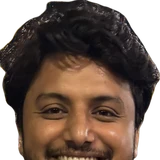
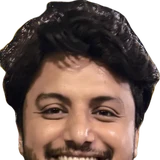
Ask Pranit: brighter complexion on both faces and arms
Claude-Session: https://claude.ai/code/session_017gPuvMHvQVt6sSyikFXk9c

diff --git a/index.html b/index.html
@@ -1150,9 +1150,9 @@ body.reading .ask{transform:translateY(calc(100% + 24px + env(safe-area-inset-bo
 </div>
 
 <!-- AI guide -->
-<div class="guide" id="guide" aria-hidden="true"><svg viewBox="0 0 120 205" class="mascot pchar" aria-hidden="true"><g class="m-all"><ellipse class="m-shadow" cx="60" cy="201" rx="26" ry="3.4" fill="#000" opacity=".22"/><g class="m-leg m-leg-l"><path d="M40 148h19l-1 44H39z" fill="#9FB5D2" stroke="#241712" stroke-width="1.5" stroke-linejoin="round"/><path d="M49 154v35" stroke="#6F87A8" stroke-width="1.2"/><path d="M35 191h24v6q0 3-3 3H38q-4 0-4-3.5z" fill="#F6F1E8" stroke="#241712" stroke-width="1.5" stroke-linejoin="round"/></g><g class="m-leg m-leg-r"><path d="M61 148h19l1 44H62z" fill="#9FB5D2" stroke="#241712" stroke-width="1.5" stroke-linejoin="round"/><path d="M71 154v35" stroke="#6F87A8" stroke-width="1.2"/><path d="M61 191h24l1 5.5q0 3.5-4 3.5H64q-3 0-3-3z" fill="#F6F1E8" stroke="#241712" stroke-width="1.5" stroke-linejoin="round"/></g><g class="m-arm m-arm-l"><path d="M29 104q-8 14-9 32" stroke="#5E3A28" stroke-width="9.5" fill="none" stroke-linecap="round"/><path d="M29 104q-8 14-9 32" stroke="#A36D50" stroke-width="7" fill="none" stroke-linecap="round"/><path d="M27 108q-10 17 0 31" stroke="#222" stroke-width="1.4" fill="none"/><rect x="11" y="133" width="20" height="13.5" rx="3" fill="#1B1B1B" stroke="#F6F1E8" stroke-width="1"/><rect x="14" y="130.5" width="6" height="3" rx="1" fill="#1B1B1B"/><circle cx="21" cy="139.7" r="4.6" fill="#333" stroke="#F6F1E8" stroke-width=".9"/><circle cx="21" cy="139.7" r="2.1" fill="#6FA8DC"/></g><g class="m-arm m-arm-r"><path d="M91 104q8 14 9 32" stroke="#5E3A28" stroke-width="9.5" fill="none" stroke-linecap="round"/><path d="M91 104q8 14 9 32" stroke="#A36D50" stroke-width="7" fill="none" stroke-linecap="round"/><circle cx="99.5" cy="138" r="5" fill="#A36D50" stroke="#5E3A28" stroke-width="1.3"/></g><g class="m-head"><image class="m-face" href="img/pk-face.webp" x="21" y="0" width="78" height="112"/><image class="m-grin" href="img/pk-grin.webp" x="21" y="0" width="78" height="112" opacity="0"/></g><path d="M38 89Q60 104 82 89L99 96 105 121 91 126.5V152H29V126.5L15 121 21 96Z" fill="#141014" stroke="#F6F1E8" stroke-width="1.2" stroke-linejoin="round"/><path d="M39.5 90.2Q60 104.6 80.5 90.2" fill="none" stroke="#2E262C" stroke-width="2.6" stroke-linecap="round"/></g></svg></div>
+<div class="guide" id="guide" aria-hidden="true"><svg viewBox="0 0 120 205" class="mascot pchar" aria-hidden="true"><g class="m-all"><ellipse class="m-shadow" cx="60" cy="201" rx="26" ry="3.4" fill="#000" opacity=".22"/><g class="m-leg m-leg-l"><path d="M40 148h19l-1 44H39z" fill="#9FB5D2" stroke="#241712" stroke-width="1.5" stroke-linejoin="round"/><path d="M49 154v35" stroke="#6F87A8" stroke-width="1.2"/><path d="M35 191h24v6q0 3-3 3H38q-4 0-4-3.5z" fill="#F6F1E8" stroke="#241712" stroke-width="1.5" stroke-linejoin="round"/></g><g class="m-leg m-leg-r"><path d="M61 148h19l1 44H62z" fill="#9FB5D2" stroke="#241712" stroke-width="1.5" stroke-linejoin="round"/><path d="M71 154v35" stroke="#6F87A8" stroke-width="1.2"/><path d="M61 191h24l1 5.5q0 3.5-4 3.5H64q-3 0-3-3z" fill="#F6F1E8" stroke="#241712" stroke-width="1.5" stroke-linejoin="round"/></g><g class="m-arm m-arm-l"><path d="M29 104q-8 14-9 32" stroke="#8A5A40" stroke-width="9.5" fill="none" stroke-linecap="round"/><path d="M29 104q-8 14-9 32" stroke="#D9A07E" stroke-width="7" fill="none" stroke-linecap="round"/><path d="M27 108q-10 17 0 31" stroke="#222" stroke-width="1.4" fill="none"/><rect x="11" y="133" width="20" height="13.5" rx="3" fill="#1B1B1B" stroke="#F6F1E8" stroke-width="1"/><rect x="14" y="130.5" width="6" height="3" rx="1" fill="#1B1B1B"/><circle cx="21" cy="139.7" r="4.6" fill="#333" stroke="#F6F1E8" stroke-width=".9"/><circle cx="21" cy="139.7" r="2.1" fill="#6FA8DC"/></g><g class="m-arm m-arm-r"><path d="M91 104q8 14 9 32" stroke="#8A5A40" stroke-width="9.5" fill="none" stroke-linecap="round"/><path d="M91 104q8 14 9 32" stroke="#D9A07E" stroke-width="7" fill="none" stroke-linecap="round"/><circle cx="99.5" cy="138" r="5" fill="#D9A07E" stroke="#8A5A40" stroke-width="1.3"/></g><g class="m-head"><image class="m-face" href="img/pk-face.webp" x="21" y="0" width="78" height="112"/><image class="m-grin" href="img/pk-grin.webp" x="21" y="0" width="78" height="112" opacity="0"/></g><path d="M38 89Q60 104 82 89L99 96 105 121 91 126.5V152H29V126.5L15 121 21 96Z" fill="#141014" stroke="#F6F1E8" stroke-width="1.2" stroke-linejoin="round"/><path d="M39.5 90.2Q60 104.6 80.5 90.2" fill="none" stroke="#2E262C" stroke-width="2.6" stroke-linecap="round"/></g></svg></div>
 <div class="tour" id="tour" hidden>
-  <span class="tav pav"><svg viewBox="0 0 120 205" class="mascot pchar" aria-hidden="true"><g class="m-all"><ellipse class="m-shadow" cx="60" cy="201" rx="26" ry="3.4" fill="#000" opacity=".22"/><g class="m-leg m-leg-l"><path d="M40 148h19l-1 44H39z" fill="#9FB5D2" stroke="#241712" stroke-width="1.5" stroke-linejoin="round"/><path d="M49 154v35" stroke="#6F87A8" stroke-width="1.2"/><path d="M35 191h24v6q0 3-3 3H38q-4 0-4-3.5z" fill="#F6F1E8" stroke="#241712" stroke-width="1.5" stroke-linejoin="round"/></g><g class="m-leg m-leg-r"><path d="M61 148h19l1 44H62z" fill="#9FB5D2" stroke="#241712" stroke-width="1.5" stroke-linejoin="round"/><path d="M71 154v35" stroke="#6F87A8" stroke-width="1.2"/><path d="M61 191h24l1 5.5q0 3.5-4 3.5H64q-3 0-3-3z" fill="#F6F1E8" stroke="#241712" stroke-width="1.5" stroke-linejoin="round"/></g><g class="m-arm m-arm-l"><path d="M29 104q-8 14-9 32" stroke="#5E3A28" stroke-width="9.5" fill="none" stroke-linecap="round"/><path d="M29 104q-8 14-9 32" stroke="#A36D50" stroke-width="7" fill="none" stroke-linecap="round"/><path d="M27 108q-10 17 0 31" stroke="#222" stroke-width="1.4" fill="none"/><rect x="11" y="133" width="20" height="13.5" rx="3" fill="#1B1B1B" stroke="#F6F1E8" stroke-width="1"/><rect x="14" y="130.5" width="6" height="3" rx="1" fill="#1B1B1B"/><circle cx="21" cy="139.7" r="4.6" fill="#333" stroke="#F6F1E8" stroke-width=".9"/><circle cx="21" cy="139.7" r="2.1" fill="#6FA8DC"/></g><g class="m-arm m-arm-r"><path d="M91 104q8 14 9 32" stroke="#5E3A28" stroke-width="9.5" fill="none" stroke-linecap="round"/><path d="M91 104q8 14 9 32" stroke="#A36D50" stroke-width="7" fill="none" stroke-linecap="round"/><circle cx="99.5" cy="138" r="5" fill="#A36D50" stroke="#5E3A28" stroke-width="1.3"/></g><g class="m-head"><image class="m-face" href="img/pk-face.webp" x="21" y="0" width="78" height="112"/><image class="m-grin" href="img/pk-grin.webp" x="21" y="0" width="78" height="112" opacity="0"/></g><path d="M38 89Q60 104 82 89L99 96 105 121 91 126.5V152H29V126.5L15 121 21 96Z" fill="#141014" stroke="#F6F1E8" stroke-width="1.2" stroke-linejoin="round"/><path d="M39.5 90.2Q60 104.6 80.5 90.2" fill="none" stroke="#2E262C" stroke-width="2.6" stroke-linecap="round"/></g></svg></span>
+  <span class="tav pav"><svg viewBox="0 0 120 205" class="mascot pchar" aria-hidden="true"><g class="m-all"><ellipse class="m-shadow" cx="60" cy="201" rx="26" ry="3.4" fill="#000" opacity=".22"/><g class="m-leg m-leg-l"><path d="M40 148h19l-1 44H39z" fill="#9FB5D2" stroke="#241712" stroke-width="1.5" stroke-linejoin="round"/><path d="M49 154v35" stroke="#6F87A8" stroke-width="1.2"/><path d="M35 191h24v6q0 3-3 3H38q-4 0-4-3.5z" fill="#F6F1E8" stroke="#241712" stroke-width="1.5" stroke-linejoin="round"/></g><g class="m-leg m-leg-r"><path d="M61 148h19l1 44H62z" fill="#9FB5D2" stroke="#241712" stroke-width="1.5" stroke-linejoin="round"/><path d="M71 154v35" stroke="#6F87A8" stroke-width="1.2"/><path d="M61 191h24l1 5.5q0 3.5-4 3.5H64q-3 0-3-3z" fill="#F6F1E8" stroke="#241712" stroke-width="1.5" stroke-linejoin="round"/></g><g class="m-arm m-arm-l"><path d="M29 104q-8 14-9 32" stroke="#8A5A40" stroke-width="9.5" fill="none" stroke-linecap="round"/><path d="M29 104q-8 14-9 32" stroke="#D9A07E" stroke-width="7" fill="none" stroke-linecap="round"/><path d="M27 108q-10 17 0 31" stroke="#222" stroke-width="1.4" fill="none"/><rect x="11" y="133" width="20" height="13.5" rx="3" fill="#1B1B1B" stroke="#F6F1E8" stroke-width="1"/><rect x="14" y="130.5" width="6" height="3" rx="1" fill="#1B1B1B"/><circle cx="21" cy="139.7" r="4.6" fill="#333" stroke="#F6F1E8" stroke-width=".9"/><circle cx="21" cy="139.7" r="2.1" fill="#6FA8DC"/></g><g class="m-arm m-arm-r"><path d="M91 104q8 14 9 32" stroke="#8A5A40" stroke-width="9.5" fill="none" stroke-linecap="round"/><path d="M91 104q8 14 9 32" stroke="#D9A07E" stroke-width="7" fill="none" stroke-linecap="round"/><circle cx="99.5" cy="138" r="5" fill="#D9A07E" stroke="#8A5A40" stroke-width="1.3"/></g><g class="m-head"><image class="m-face" href="img/pk-face.webp" x="21" y="0" width="78" height="112"/><image class="m-grin" href="img/pk-grin.webp" x="21" y="0" width="78" height="112" opacity="0"/></g><path d="M38 89Q60 104 82 89L99 96 105 121 91 126.5V152H29V126.5L15 121 21 96Z" fill="#141014" stroke="#F6F1E8" stroke-width="1.2" stroke-linejoin="round"/><path d="M39.5 90.2Q60 104.6 80.5 90.2" fill="none" stroke="#2E262C" stroke-width="2.6" stroke-linecap="round"/></g></svg></span>
   <div class="tb">
     <div class="toff"><p class="tw"><b>Hi, I'm Pranit 👋</b></p><p>Well, an AI version of me. Tap start and I'll walk you through my work in a minute, with music and voice.</p><div class="tbtns"><button class="btn" id="tourGo" type="button">▶ Start the tour</button><button class="tlink" id="tourNo" type="button">Just let me explore</button></div></div>
     <div class="trun"><div class="tk"><span class="mono">Tour with AI Pranit</span><span class="mono" id="tourN">1 / 11</span></div><p id="tourTx" aria-live="polite"></p><span class="tbar"><i id="tourBar"></i></span></div>
@@ -1160,7 +1160,7 @@ body.reading .ask{transform:translateY(calc(100% + 24px + env(safe-area-inset-bo
   <div class="tctl"><button id="tourPP" type="button" aria-label="Pause tour">❚❚</button><button id="tourNx" type="button" aria-label="Next stop">→</button><button id="tourX" type="button" aria-label="Close">✕</button></div>
 </div>
 
-<button class="ask" id="askBtn" aria-label="Ask Pranit, an AI version of me"><span class="asktip" aria-hidden="true">Questions? Ask me</span><span class="mbot"><svg viewBox="0 0 120 205" class="mascot pchar" aria-hidden="true"><g class="m-all"><ellipse class="m-shadow" cx="60" cy="201" rx="26" ry="3.4" fill="#000" opacity=".22"/><g class="m-leg m-leg-l"><path d="M40 148h19l-1 44H39z" fill="#9FB5D2" stroke="#241712" stroke-width="1.5" stroke-linejoin="round"/><path d="M49 154v35" stroke="#6F87A8" stroke-width="1.2"/><path d="M35 191h24v6q0 3-3 3H38q-4 0-4-3.5z" fill="#F6F1E8" stroke="#241712" stroke-width="1.5" stroke-linejoin="round"/></g><g class="m-leg m-leg-r"><path d="M61 148h19l1 44H62z" fill="#9FB5D2" stroke="#241712" stroke-width="1.5" stroke-linejoin="round"/><path d="M71 154v35" stroke="#6F87A8" stroke-width="1.2"/><path d="M61 191h24l1 5.5q0 3.5-4 3.5H64q-3 0-3-3z" fill="#F6F1E8" stroke="#241712" stroke-width="1.5" stroke-linejoin="round"/></g><g class="m-arm m-arm-l"><path d="M29 104q-8 14-9 32" stroke="#5E3A28" stroke-width="9.5" fill="none" stroke-linecap="round"/><path d="M29 104q-8 14-9 32" stroke="#A36D50" stroke-width="7" fill="none" stroke-linecap="round"/><path d="M27 108q-10 17 0 31" stroke="#222" stroke-width="1.4" fill="none"/><rect x="11" y="133" width="20" height="13.5" rx="3" fill="#1B1B1B" stroke="#F6F1E8" stroke-width="1"/><rect x="14" y="130.5" width="6" height="3" rx="1" fill="#1B1B1B"/><circle cx="21" cy="139.7" r="4.6" fill="#333" stroke="#F6F1E8" stroke-width=".9"/><circle cx="21" cy="139.7" r="2.1" fill="#6FA8DC"/></g><g class="m-arm m-arm-r"><path d="M91 104q8 14 9 32" stroke="#5E3A28" stroke-width="9.5" fill="none" stroke-linecap="round"/><path d="M91 104q8 14 9 32" stroke="#A36D50" stroke-width="7" fill="none" stroke-linecap="round"/><circle cx="99.5" cy="138" r="5" fill="#A36D50" stroke="#5E3A28" stroke-width="1.3"/></g><g class="m-head"><image class="m-face" href="img/pk-face.webp" x="21" y="0" width="78" height="112"/><image class="m-grin" href="img/pk-grin.webp" x="21" y="0" width="78" height="112" opacity="0"/></g><path d="M38 89Q60 104 82 89L99 96 105 121 91 126.5V152H29V126.5L15 121 21 96Z" fill="#141014" stroke="#F6F1E8" stroke-width="1.2" stroke-linejoin="round"/><path d="M39.5 90.2Q60 104.6 80.5 90.2" fill="none" stroke="#2E262C" stroke-width="2.6" stroke-linecap="round"/></g></svg></span><span class="lg">Ask Pranit</span><span class="sm">Ask Pranit</span></button>
+<button class="ask" id="askBtn" aria-label="Ask Pranit, an AI version of me"><span class="asktip" aria-hidden="true">Questions? Ask me</span><span class="mbot"><svg viewBox="0 0 120 205" class="mascot pchar" aria-hidden="true"><g class="m-all"><ellipse class="m-shadow" cx="60" cy="201" rx="26" ry="3.4" fill="#000" opacity=".22"/><g class="m-leg m-leg-l"><path d="M40 148h19l-1 44H39z" fill="#9FB5D2" stroke="#241712" stroke-width="1.5" stroke-linejoin="round"/><path d="M49 154v35" stroke="#6F87A8" stroke-width="1.2"/><path d="M35 191h24v6q0 3-3 3H38q-4 0-4-3.5z" fill="#F6F1E8" stroke="#241712" stroke-width="1.5" stroke-linejoin="round"/></g><g class="m-leg m-leg-r"><path d="M61 148h19l1 44H62z" fill="#9FB5D2" stroke="#241712" stroke-width="1.5" stroke-linejoin="round"/><path d="M71 154v35" stroke="#6F87A8" stroke-width="1.2"/><path d="M61 191h24l1 5.5q0 3.5-4 3.5H64q-3 0-3-3z" fill="#F6F1E8" stroke="#241712" stroke-width="1.5" stroke-linejoin="round"/></g><g class="m-arm m-arm-l"><path d="M29 104q-8 14-9 32" stroke="#8A5A40" stroke-width="9.5" fill="none" stroke-linecap="round"/><path d="M29 104q-8 14-9 32" stroke="#D9A07E" stroke-width="7" fill="none" stroke-linecap="round"/><path d="M27 108q-10 17 0 31" stroke="#222" stroke-width="1.4" fill="none"/><rect x="11" y="133" width="20" height="13.5" rx="3" fill="#1B1B1B" stroke="#F6F1E8" stroke-width="1"/><rect x="14" y="130.5" width="6" height="3" rx="1" fill="#1B1B1B"/><circle cx="21" cy="139.7" r="4.6" fill="#333" stroke="#F6F1E8" stroke-width=".9"/><circle cx="21" cy="139.7" r="2.1" fill="#6FA8DC"/></g><g class="m-arm m-arm-r"><path d="M91 104q8 14 9 32" stroke="#8A5A40" stroke-width="9.5" fill="none" stroke-linecap="round"/><path d="M91 104q8 14 9 32" stroke="#D9A07E" stroke-width="7" fill="none" stroke-linecap="round"/><circle cx="99.5" cy="138" r="5" fill="#D9A07E" stroke="#8A5A40" stroke-width="1.3"/></g><g class="m-head"><image class="m-face" href="img/pk-face.webp" x="21" y="0" width="78" height="112"/><image class="m-grin" href="img/pk-grin.webp" x="21" y="0" width="78" height="112" opacity="0"/></g><path d="M38 89Q60 104 82 89L99 96 105 121 91 126.5V152H29V126.5L15 121 21 96Z" fill="#141014" stroke="#F6F1E8" stroke-width="1.2" stroke-linejoin="round"/><path d="M39.5 90.2Q60 104.6 80.5 90.2" fill="none" stroke="#2E262C" stroke-width="2.6" stroke-linecap="round"/></g></svg></span><span class="lg">Ask Pranit</span><span class="sm">Ask Pranit</span></button>
 <div class="chat" id="chat" hidden role="dialog" aria-label="Ask Pranit">
   <header><span class="av pav"><img src="img/pk-avatar.webp" alt="" width="160" height="160"></span><div><strong>AI Pranit</strong><span class="mono" style="font-size:.6rem">An AI version of me · knows my work</span></div><button class="tbtn" id="voice" aria-pressed="false" title="Read every answer aloud"><span class="bars"><i></i><i></i><i></i></span><span id="voiceLbl">Auto-voice off</span></button><button class="x" id="closeChat" aria-label="Close chat">✕</button></header>
   <div class="log" id="log" data-lenis-prevent><div class="msg bot">Hi! I'm Pranit, well, an AI version of me. I built myself into this site to walk you through my work and answer your questions. Ask about my projects, my process, or how to reach me.</div></div>
